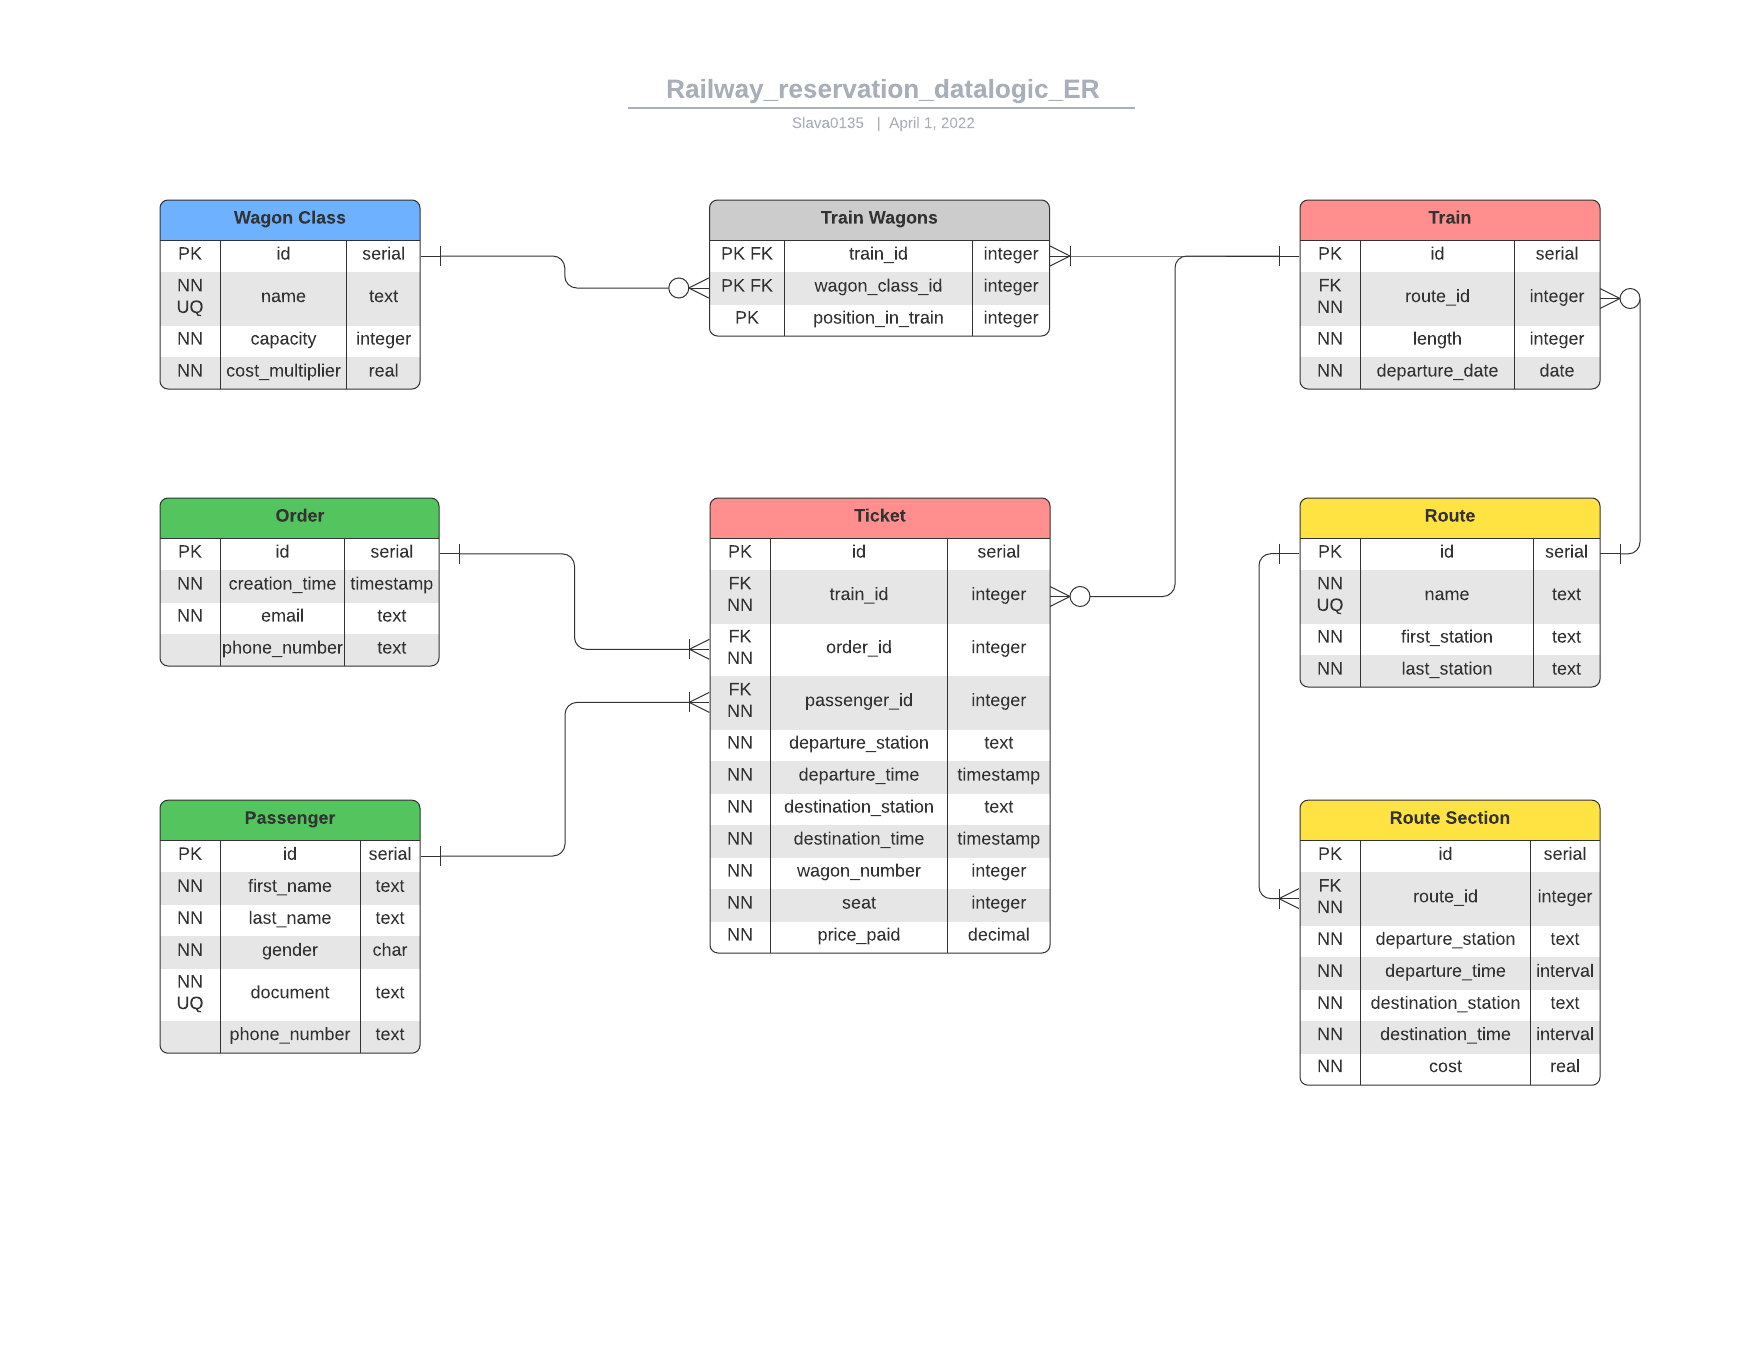
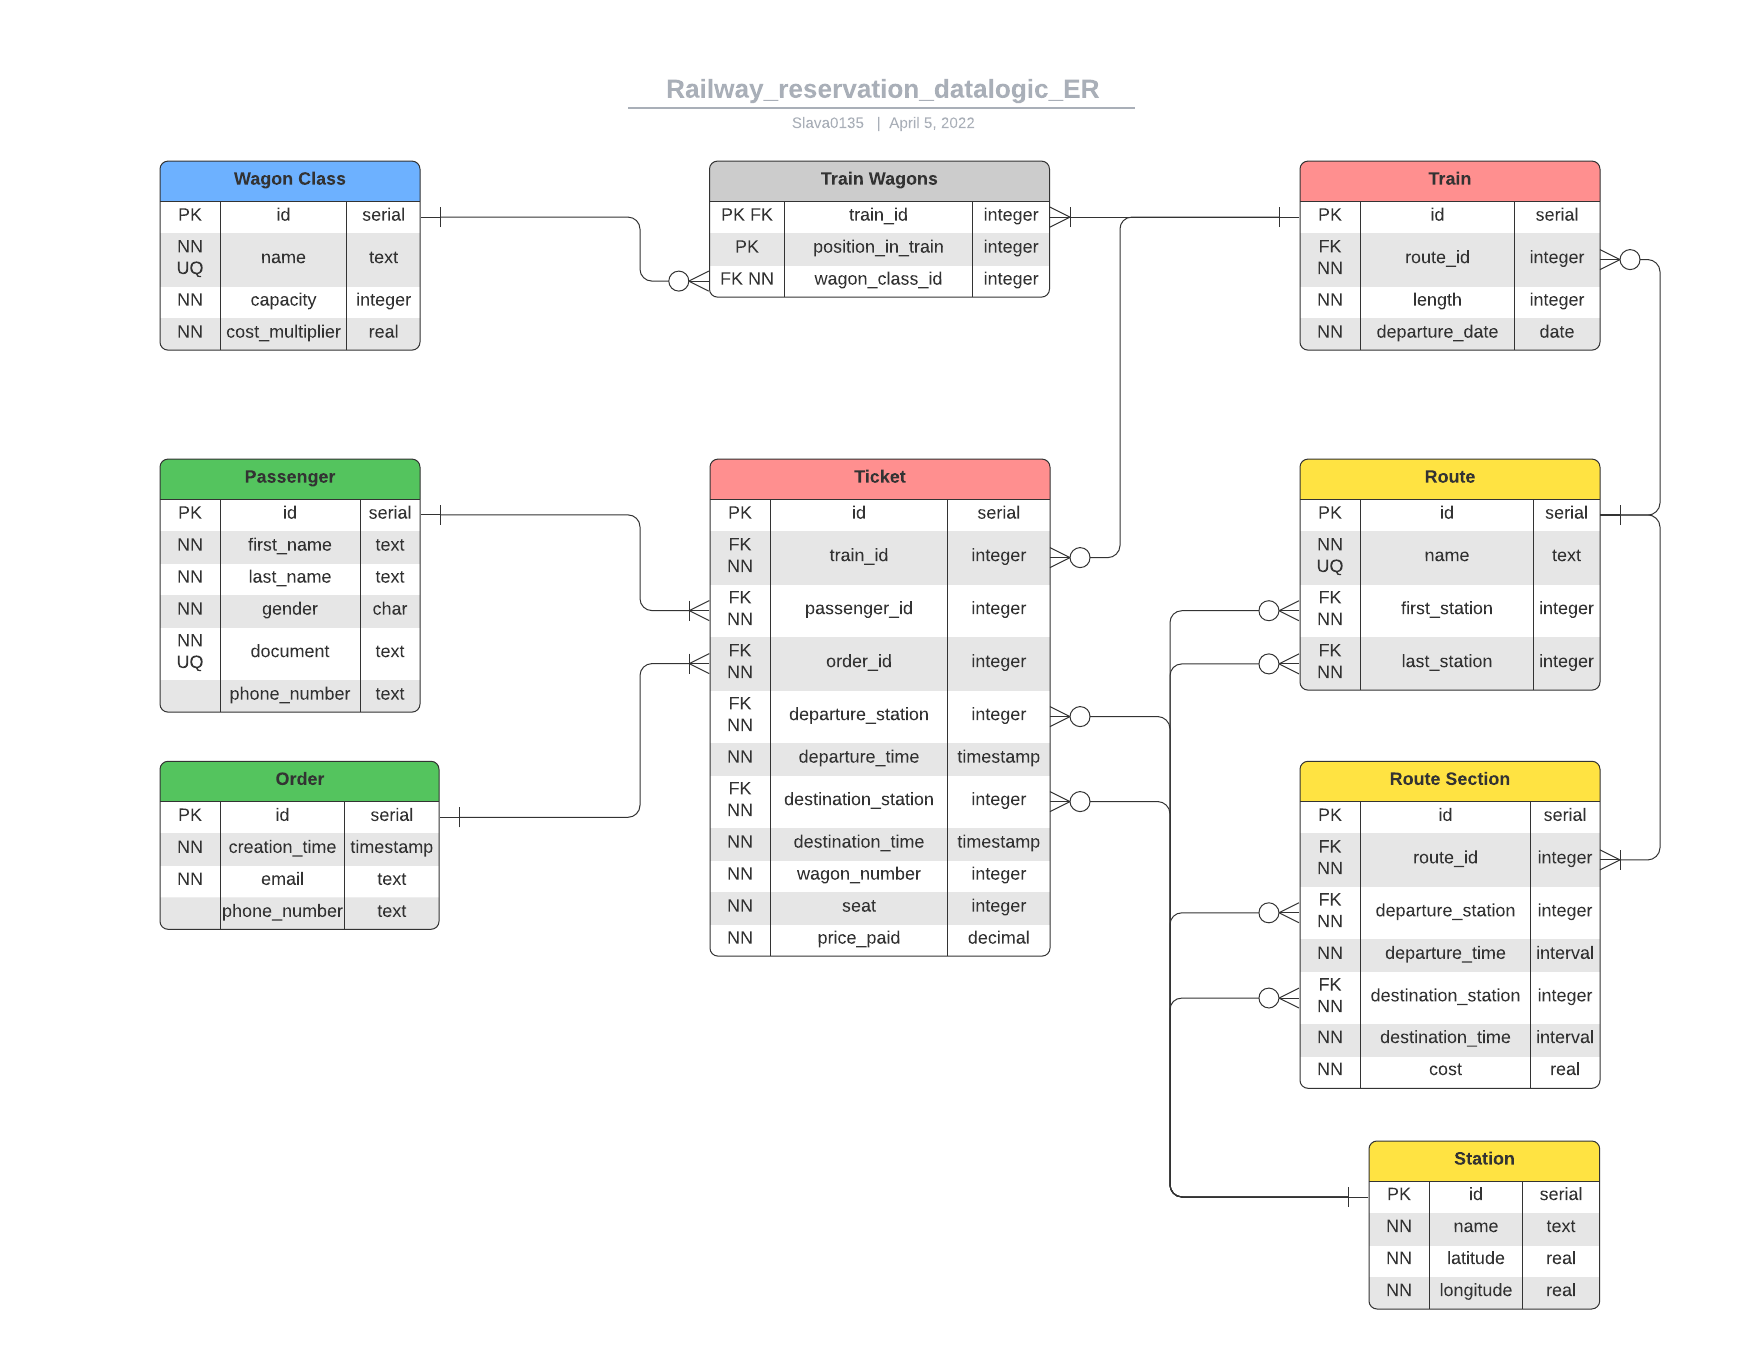
Корректировка диаграмм

diff --git a/lab1.md b/lab1.md
@@ -35,6 +35,8 @@
 * Данные пассажиров (ФИО, пол, номер документа, номер телефона).
   * На одного пассажира может быть оформлено несколько билетов (можно выкупить несколько мест для удобства).
 
+**Индивидуальное задание из второй части - ввести в предметную область сущность "Станция", которая характеризуется названием и географическими координатами.**
+
 Я создал следующую концептуальную схему:
 
 ![Концептуальная схема](lab1/Railway_reservation_concept_ER.png)
@@ -45,13 +47,13 @@
 
 ### Часть 2
 
-Я написал скрипт БД для добавления таблиц в соответствии с построенной схемой.
+Я написал [скрипт](lab1/create_tables.sql) для добавления таблиц в соответствии с построенной схемой.
 
 В результате получилась следующая схема БД:
 
 ![Схема БД](lab1/Railways_reservation_ER.png)
 
-Далее я написал скрипт, заполняющий все таблицы БД данными.
+Далее я написал [скрипт](lab1/fill_tables.sql), заполняющий все таблицы БД данными.
 
 ## Выводы
 
